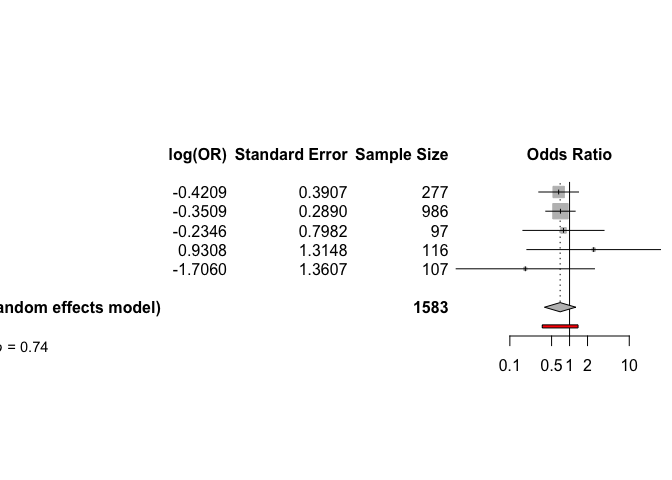
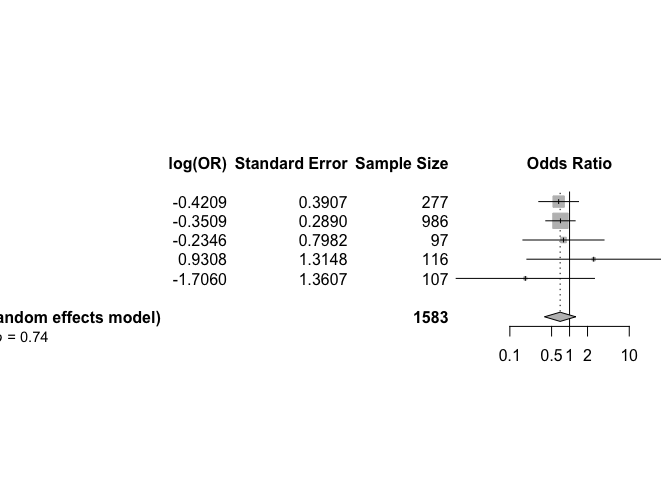
Updated notes

diff --git a/notes.md b/notes.md
@@ -70,7 +70,7 @@ https://www.ipdma.co.uk/description
 4. Adjustments across all models? With and without?
 3. Rare event correction? See firth regression in Ghazaeian, respiratory support, all 7 events only in clinstatus_baseline == 3
 
-*_Chapter7_*
+*_Chapter7_* Using IPD Meta-Analysis to Examine Interactions between Treatment Effect and Participant-level Covariates
 
 ## How to deal with rare events and small trials
 1. binary outcomes (page 99): "A problem occurs in trials that have no outcome events (or no non-events) in either the treatment group or the control group, as then the treatment effect estimate (e.g. log odds ratio or log risk ratio) and its variance cannot be calculated because the regression model cannot be fitted.32–34 Then, the meta-analyst is faced with either throwing such trials away (which might be viewed as research waste) or adding extra information to their data to allow estimates to be derived. Traditionally, the latter is addressed in a particular trial by using a continuity correction, where a small number is added to each cell of the trial’s two-by-two table (i.e. that which tabulates the number of events and non-events for the treatment and control groups). Traditionally 0.5 is the value added,35 but Sweeting et al. suggest that a ‘treatment arm’ continuity correction is more appropriate,33 which adds 1/(sample size of the opposite treatment group) to the number of event and non-events. In the IPD context, a similar approach is to add two extra participants to each group in a trial if it has zero events in either of the groups; one of the added participants has the event and the other does not have the event in each group. Then, a weighted regression analysis can be performed to analyse the extended IPD, with all participants weighted equally except the four added participants, who are given a weight according to Sweeting correction (i.e. 1/(sample size of the opposite treat- ment group)). However, this approach becomes problematic when adjusting for prognostic factors or extending to non-binary variables. For this reason, a more general approach is to adopt Firth regression,36 which is a penalisation method that reduces small sample bias for non-linear models such as logistic regression, and resolves problems related to separation. Alternatively, researchers may revert to a one-stage IPD meta-analysis approach (Chapter 6),14,34 and placing random effects on parameters (rather than stratifying parameters by trial) so that estimation of trial-specific terms are avoided."
@@ -117,16 +117,52 @@ https://www.ipdma.co.uk/description
 
 ## Meta-regressions
 1. page 120
-* risk of bias
+* by risk of bias
 * different JAK inhibitors
 
 ## Add CTI biopharma trial 
-
+See p.127
 
 # One-stage approach
 "A potential concern, however, is that the second stage [of the two-stage approach] assumes treatment effect estimates in each trial are normally distributed and that their variances are known; this may be problematic when most trials in the meta-analysis are small (in terms of number of participants and/or events), and motivates rather using the one-stage approach described in the next chapter."
 
-## point 1
+## Setting the right parameters/assumptions and general comments
+1. "One-stage IPD meta-analysis models usually include multiple parameters and these are estimated simultaneously. For each parameter (such as the intercept, treatment effect, residual variances) the analyst must specify whether they are common (the same in each trial), stratified (different in each trial) or random (different in each trial and assumed drawn from a particular distribution)." (p.127)
+2. "A stratified trial intercept is generally preferred, unless there are computational concerns. The use of random trial intercepts allows information about baseline risk to be shared across trials, which may compromise randomisation within each trial." (p.127)
+3. "For binary outcomes, unless most included trials have sparse numbers of events, REML estimation of a pseudo-likelihood is recommended." (p.127)
+4. "The one-stage modelling framework can be extended to accommodate non-proportional hazards, trials with different designs and inclusion of aggregate data from non-IPD trials." (p.127)
+5. "Researchers must pre-specify and report their one-stage model specification and assumptions" (p.127)
+6. "A one-stage IPD meta-analysis utilises a more exact statistical likelihood than a two-stage meta-analysis approach, which is advantageous when included trials have few participants or outcome events." (p.127)
+7. "Compared to a two-stage approach to IPD meta-analysis (Chapter 5), a major advantage of one-stage models for binary (and multinomial, ordinal or count) outcomes is the ability to handle trials that contain a group with no participants who have the outcome event (or conversely no participants without the outcome event).14,147,157,166 This is due to modelling the binomial likelihood directly, and avoids the need for continuity corrections, unlike the two-stage approach. Thus, one-stage models are especially important when trials contain small numbers of participants or events. Including trials with double zeros (i.e. both groups have no participants with the outcome event, or conversely all participants have the outcome event) is not recommended, as they provide no information about the treatment effect unless additional assumptions are made. Where data are sparse, one-stage models for binary outcomes are prone to potential bias in summary odds ratios,98 although any bias should be less than occurs for the two-stage approach, where data are even more sparse due to deriving trial-specific estimates separately in the first stage." (p.127)
+8. "The meta-analysis literature traditionally uses the words common and fixed interchangeably; in particular, the phrase ‘fixed-effect meta-analysis’ is usually short-hand for a meta- analysis that assumes the treatment effect is common to all trials. This is unhelpful in the context of a one-stage IPD meta-analysis for various reasons. Firstly, there are multiple parameters within a one-stage model, and so loosely stating that a ‘fixed-effect IPD meta-analysis was used’ does not reveal which parameter (or parameters) the word ‘fixed’ actually refers to. Secondly, the word ‘fixed’ is ambiguous; it could refer to either a common or stratified parameter, even though they imply different model specifications and assumptions. Therefore, we recommend that the word ‘fixed’ be avoided in one-stage IPD models, and encourage researchers to use common or stratified instead. As the one-stage model produces multiple parameter estimates, is also helpful to replace vague wording such as ‘common-effect meta-analysis’ or ‘random-effects meta-analysis’ with more explicit wording about which parameters in the model are being assumed common or random (or stratified). This is especially important when the one-stage model equation is not actually provided." (p. 138)
+9. "Assuming a parameter is stratified requires a separate value of the parameter to be estimated for each trial; it allows the true value of each parameter to be trial-specific, without making any assumption about the distribution of the parameter values across trials. For example, allowing for a stratified intercept when there are 10 trials is equivalent to specifying 10 intercepts, one for each trial. This may be acceptable for so-called nuisance parameters (i.e. those parameters not of direct interest, such as the trial-specific intercepts, prognostic factor effects, residual variances, etc). However, stratification is unhelpful for those parameters requiring summary inferences, such as the treatment effect, and rather these must be assumed common or random. Homogeneity of treatment effect is a strong assumption, and often will be inappropriate due to unexplained between-trial heterogeneity (Section 5.3.2). To address this, the treatment effect parameter can be made random, such that the true treatment effect in each trial is assumed drawn from a particular distribution, typically a normal distribution." (p. 138)
+10. "Importantly, even when allowing the treatment effects to be random, the nuisance parameters within the GLMM (i.e. those parameters other than the treatment effect) are still stratified by trial. This is needed to account for clustering of participants within trials, and to allow for potential between-trial heterogeneity in baseline risk and prognostic effects. An alternative option is to assume nuisance parameters are random. Section 6.2.4.2 discusses the choice between random and stratified parameters in more detail. Many researchers assume nuisance parameters are common (often because this is the default in software packages), but this is not recommended as it may lead to inappropriate conclusions, as now described." (p. 138)
+11. "The advantage of the stratified intercept approach is that it makes no assumptions about the distribution of intercepts across trials - and mirrors exactly the two-stage approach. The advantage of the random intercepts approach is that it requires fewer parameters to be estimated and so may reduce model convergence issues. But usually give very similar results." (p. 141 & 143)
+12. "Therefore, when fitting a one-stage model with random intercepts and random treatment effects, Turner et al. suggest the correlation should be accounted for and a 1/0 treatment variable coding used.157 If the correlation is not estimable, then assuming it is zero and using a +0.5/–0.5 treatment variable coding is sensible." (p. 144)
+13. "Our default recommendation is to use stratified prognostic effects (i.e. estimate a separate effect of each included prognostic factor for each trial), with trial-specific centering of each prognostic factor to improve ML estimation (for the reasons explained in Section 6.2.8.3). However, if outcome data or prognostic factor categories are sparse, the stratification approach may lead to estimation difficulties, and then allowing prognostic factor effects to be random is a sensible alternative." (p. 145)
+14."Unfortunately, there is no natural extension from ML to REML estimation for the exact likelihood defined by a GLMM of a binary, ordinal or count outcome, as the model residuals cannot be estimated separately from the main parameters. Thus ML estimation is generally the default estimation choice for GLMMs of non-continuous outcomes, for which downward bias in between-trial variance estimates and low coverage of confidence intervals is a strong concern, especially with a small number of trials in the IPD meta-analysis. To address this issue, Wolfinger and O’Connell suggest using a pseudo-likelihood approximation of the exact likelihood,199 where the outcome response variable is transformed to an approximately linear scale. This allows REML to be used for GLMMs of non-continuous outcomes, but at the expense of an approximate likelihood. This may be an acceptable trade-off in some situations, to improve between-trial variance estimates and confidence interval coverage. For example, when there are, say, 15 or fewer trials in the IPD meta-analysis, and most have reasonable numbers of participants and events, REML estimation of the pseudo-likelihood may be a good approximation and perform much better than ML estimation of the exact likelihood.200 REML also allows the Kenward-Roger or Satterthwaite corrections to the confidence interval. However, this REML approach may not be appropriate when data are sparse (i.e. most trials are small and have few or even zero events), as other work indicates the pseudo-likelihood is not accurate in sparse data situations.153 Problems with REML estimation of the pseudo-likelihood are revealed when parameter estimates are unstable. Instability is evident when first-order and second-order linearisation of the likelihood lead to very different parameter estimates, or when different parameterisations that should not affect REML (such as centering of covariates) change parameter estimates importantly. In such situations, ML estimation of the exact likelihood is preferred. " (p. 148)
+
+## The main recommendations for one-stage IPD meta-analysis models using GLMMs summarized (Box 6.4)
+1. Use a random treatment effect.
+Justification: Typically the included trials are conducted in different settings, populations and time periods. Therefore, some heterogeneity of treatment effect is expected. Heterogeneity might be reduced by inclusion of prognostic factors (Section 6.2.6) or trial-level covariates (6.2.7), but usually unexplained heterogeneity remains and so should be acknowledged.
+2. Stratify by trial the intercept and parameters for other non-treatment variables (such as prog- nostic factors and residual variances). If convergence issues arise, then consider making the intercept (and other non-treatment variables) random.
+Justification: Although a random intercept will usually give similar results to a stratified inter- cept, in some situations it may compromise randomisation (as it allows baseline risk informa- tion to be shared across trials). If a stratified intercept model fails to converge (e.g. with rare events or many parameters), assuming random intercepts is a sensible compromise, in which case accounting for the correlation between the random effects on intercept and treatment effect may be important. Another option is to entirely condition out the trial intercepts (Section 6.2.4.2).
+3. Use trial-specific centering of the treatment variable (and any other included variables, such as prognostic factors) when using ML estimation of a one-stage model with a stratified intercept. Justification: Simulation studies and mathematical reasoning show that this improves ML esti- mation of between-trial variances and the coverage of confidence intervals for the summary treatment effect (Section 6.2.8.3).
+4. For frequentist estimation of one-stage models for binary, ordinal or count outcomes, use REML estimation of the pseudo-likelihood approach unless most trials in the meta-analysis are small (in terms of participants or outcome events), which then warrants ML estimation of the exact likelihood.
+Justification: Although estimation of the exact likelihood is preferred, ML estimation is known to produce downwardly biased estimates of between-trial variances. Therefore, unless most included trials are small, REML estimation of an approximate pseudo-likelihood specification may improve estimation of between-trial variances and coverage of confidence intervals (Section 6.2.8.4). When either REML or ML estimation is used, coverage is improved using con- fidence intervals based on the t-distribution (Section 6.2.8.5). A Bayesian approach is an appealing alternative.
+
+
+Also, check out: Adapted from Simmonds MC, Higgins JP. A general framework for the use of logistic regression models in meta-analysis. Stat Methods Med Res 2016;25(6):2858–77.
+
+
+## Combining IPD Trials with Partially Reconstructed IPD from Non-IPD Trials
+1. "For binary outcome data, IPD can be partly reconstructed from the aggregated information
+in published two-by-two tables.8 For example, if the number of participants who were dead and
+alive for each of the treatment and control groups is known, IPD can be re-created in a binary
+data format, where control/treatment group and alive/dead are represented by a series of
+zeros and ones. This is illustrated in Box 6.5." (p. 160)
+
+
 
 
 

diff --git a/two_stage.md b/two_stage.md
@@ -70,7 +70,7 @@ str(df_mort28)
 ```
 
 ```
-## 'data.frame':	5 obs. of  9 variables:
+## 'data.frame':	5 obs. of  10 variables:
 ##  $ variable         : chr  "death at day 28" "death at day 28" "death at day 28" "death at day 28_firth" ...
 ##  $ hazard_odds_ratio: num  0.656 0.704 0.791 2.537 0.182
 ##  $ ci_lower         : num  0.30018 0.39577 0.14728 0.12715 0.00131
@@ -80,6 +80,7 @@ str(df_mort28)
 ##  $ n_intervention   : num  137 494 46 58 53
 ##  $ n_control        : num  140 492 51 58 54
 ##  $ trial            : chr  "Bari-SolidAct" "ACTT-2" "Ghazaeian" "TOFACOV" ...
+##  $ JAKi             : chr  "Baricitinib" "Baricitinib" "Tofacitinib" "Tofacitinib" ...
 ```
 
 ```r
@@ -92,13 +93,13 @@ mort28 <- metagen(TE = log(hazard_odds_ratio),
                       sm = "OR",
                       fixed = F,
                       random = T,
-                      prediction = T,
+                      prediction = F,
                       method.tau = "REML", # no difference with Paule-Mandel
                       hakn = T, # Hartung-Knapp- Sidik-Jonkman (HKSJ) modified estimate of the variance / 95% CI -> notes
                       adhoc.hakn.ci = "se", # Argument 'adhoc.hakn.ci' must be "", "se", "ci", or "IQWiG6".
                       title = "Average treatment effect - mortality 28 days",
-                      # subset = trial == "x" | trial == "y" # exclude entirely
-                      # exclude = trial %in% c("MRC-1", "MRC-2")) # include in forestplot but exclude from analysis
+                      # subset = trial %in% c("Bari-SolidAct", "ACTT-2", "COVINIB") # exclude entirely
+                      # exclude = trial %in% c("Bari-SolidAct", "ACTT-2", "COVINIB") # include in forestplot but exclude from analysis
                       )
 summary(mort28)
 ```
@@ -118,7 +119,6 @@ summary(mort28)
 ## 
 ##                                  OR           95%-CI     t p-value
 ## Random effects model (HK-SE) 0.6953 [0.3805; 1.2705] -1.67  0.1695
-## Prediction interval                 [0.3484; 1.3876]              
 ## 
 ## Quantifying heterogeneity:
 ##  tau^2 = 0 [0.0000; 5.4355]; tau = 0 [0.0000; 2.3314]
@@ -133,7 +133,6 @@ summary(mort28)
 ## - Restricted maximum-likelihood estimator for tau^2
 ## - Q-Profile method for confidence interval of tau^2 and tau
 ## - Hartung-Knapp adjustment for random effects model (df = 4)
-## - Prediction interval based on t-distribution (df = 3)
 ```
 
 ```r
